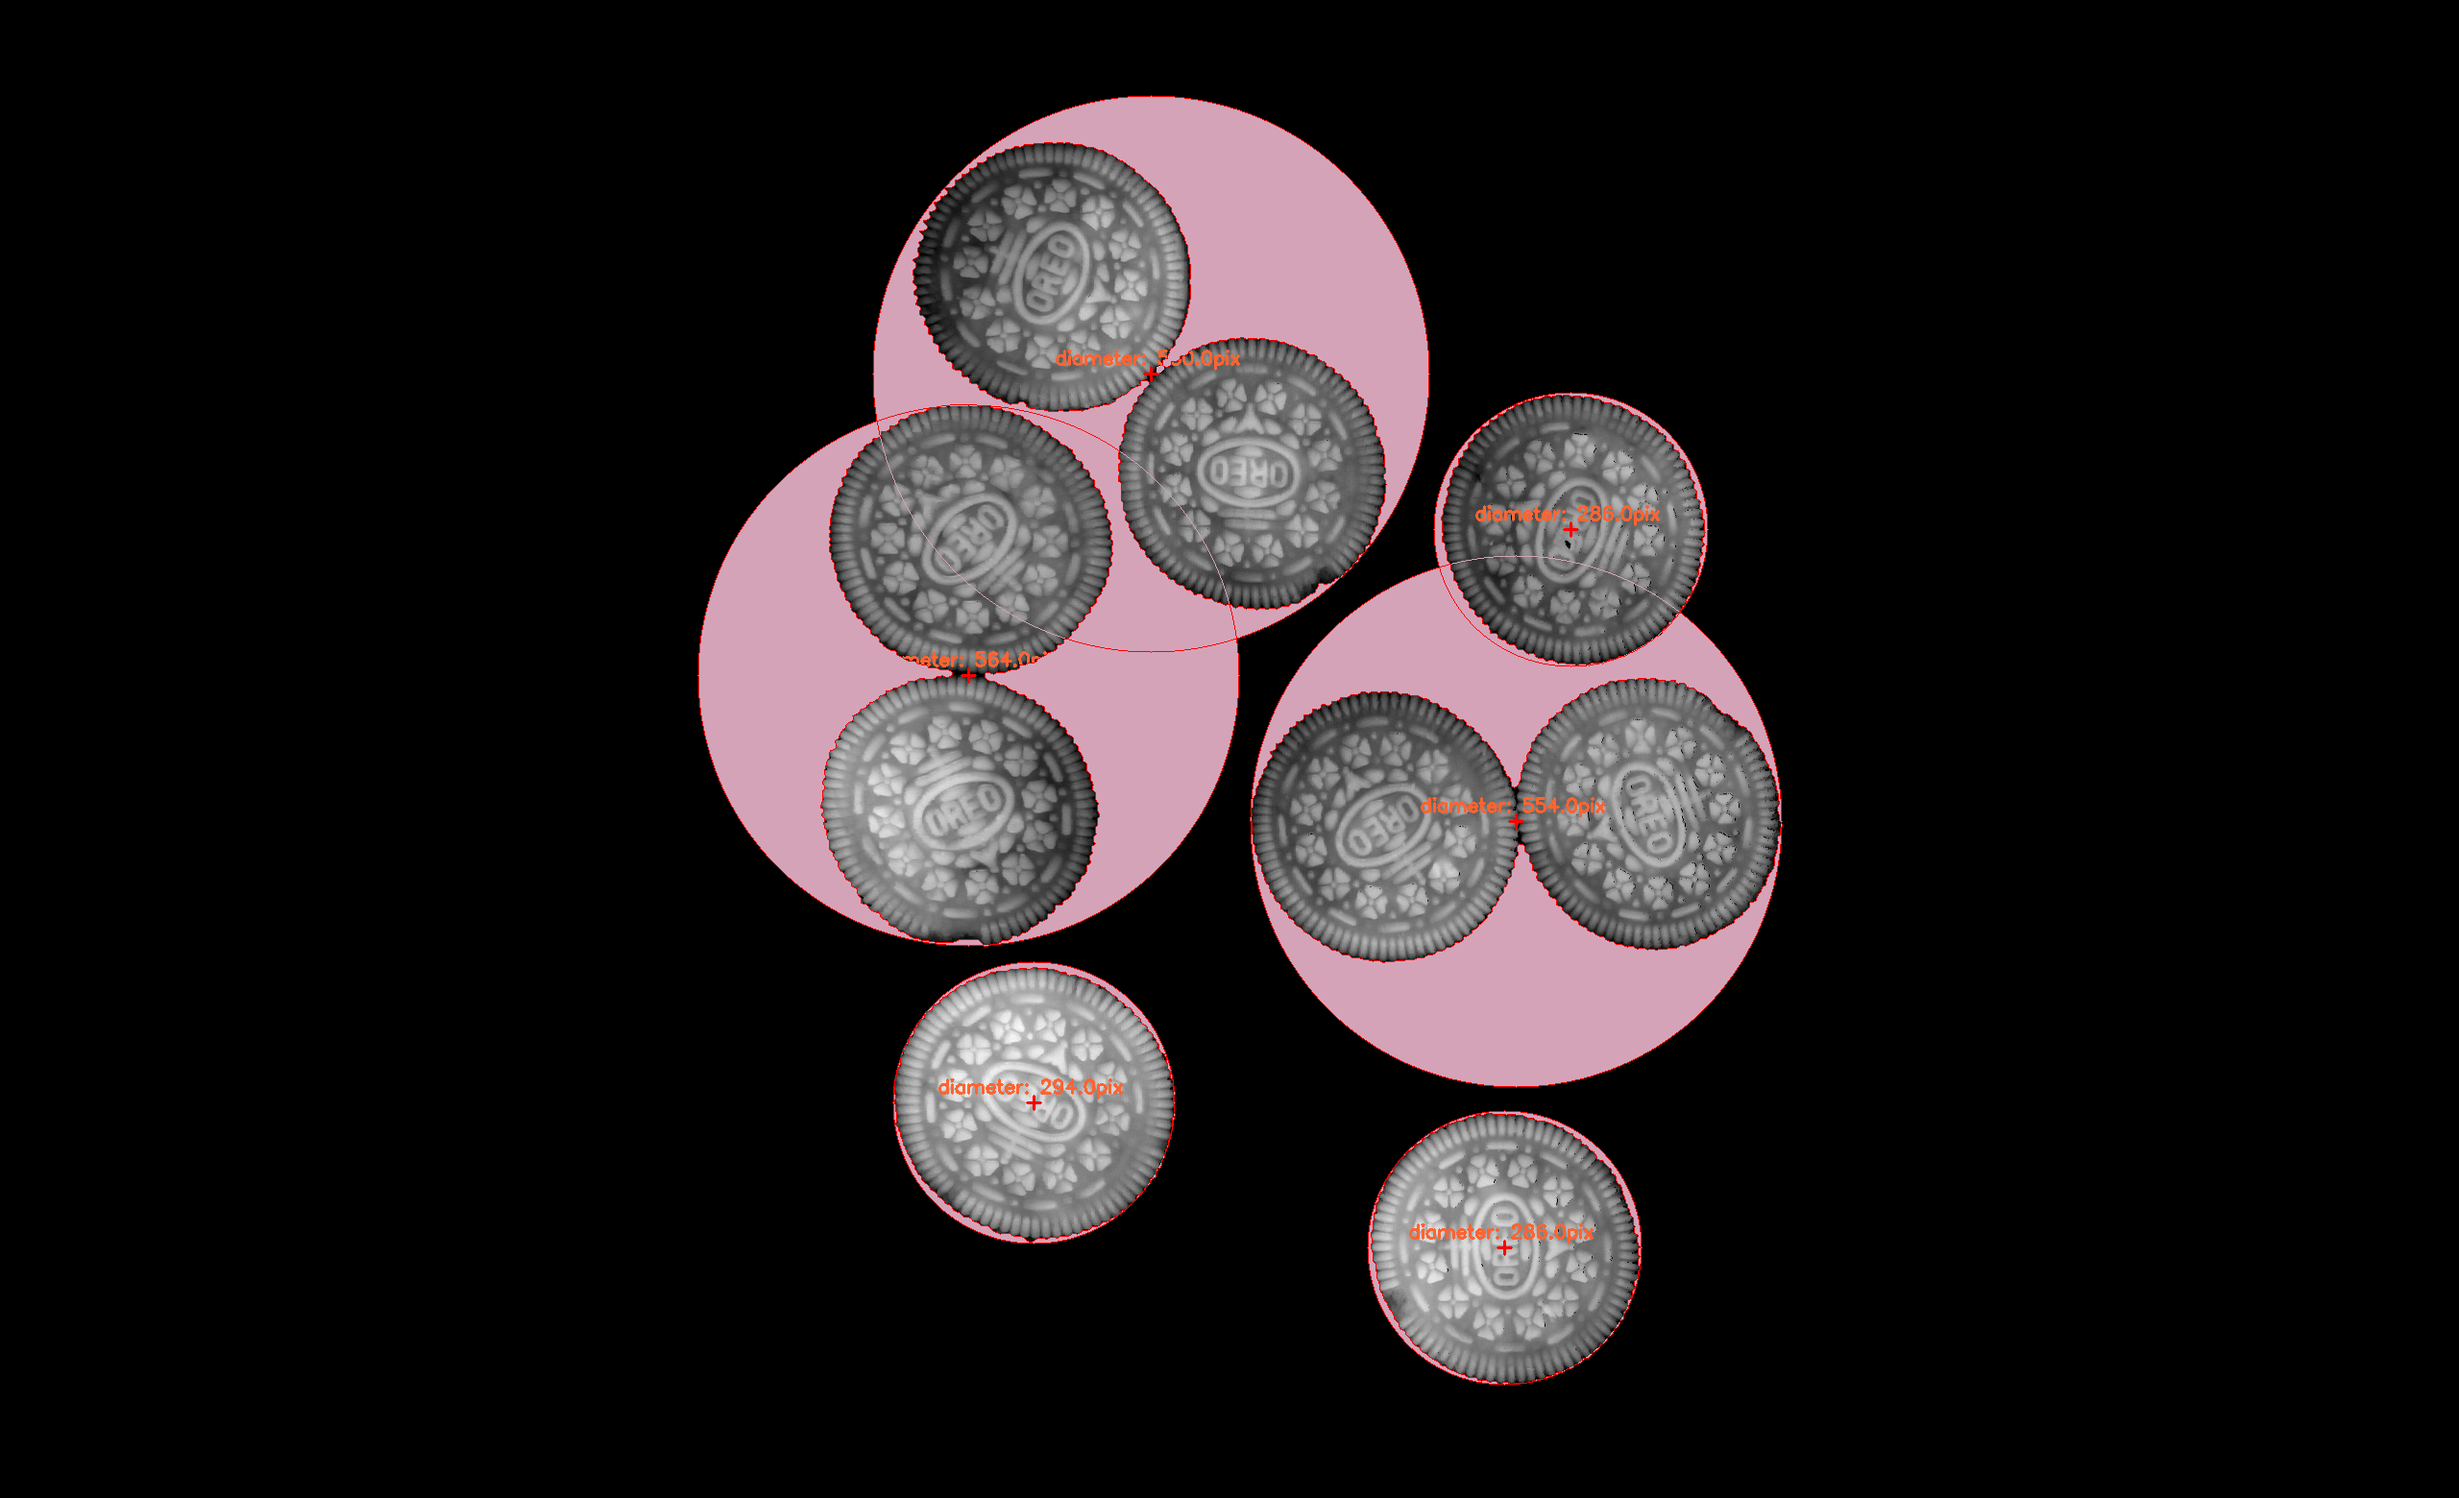
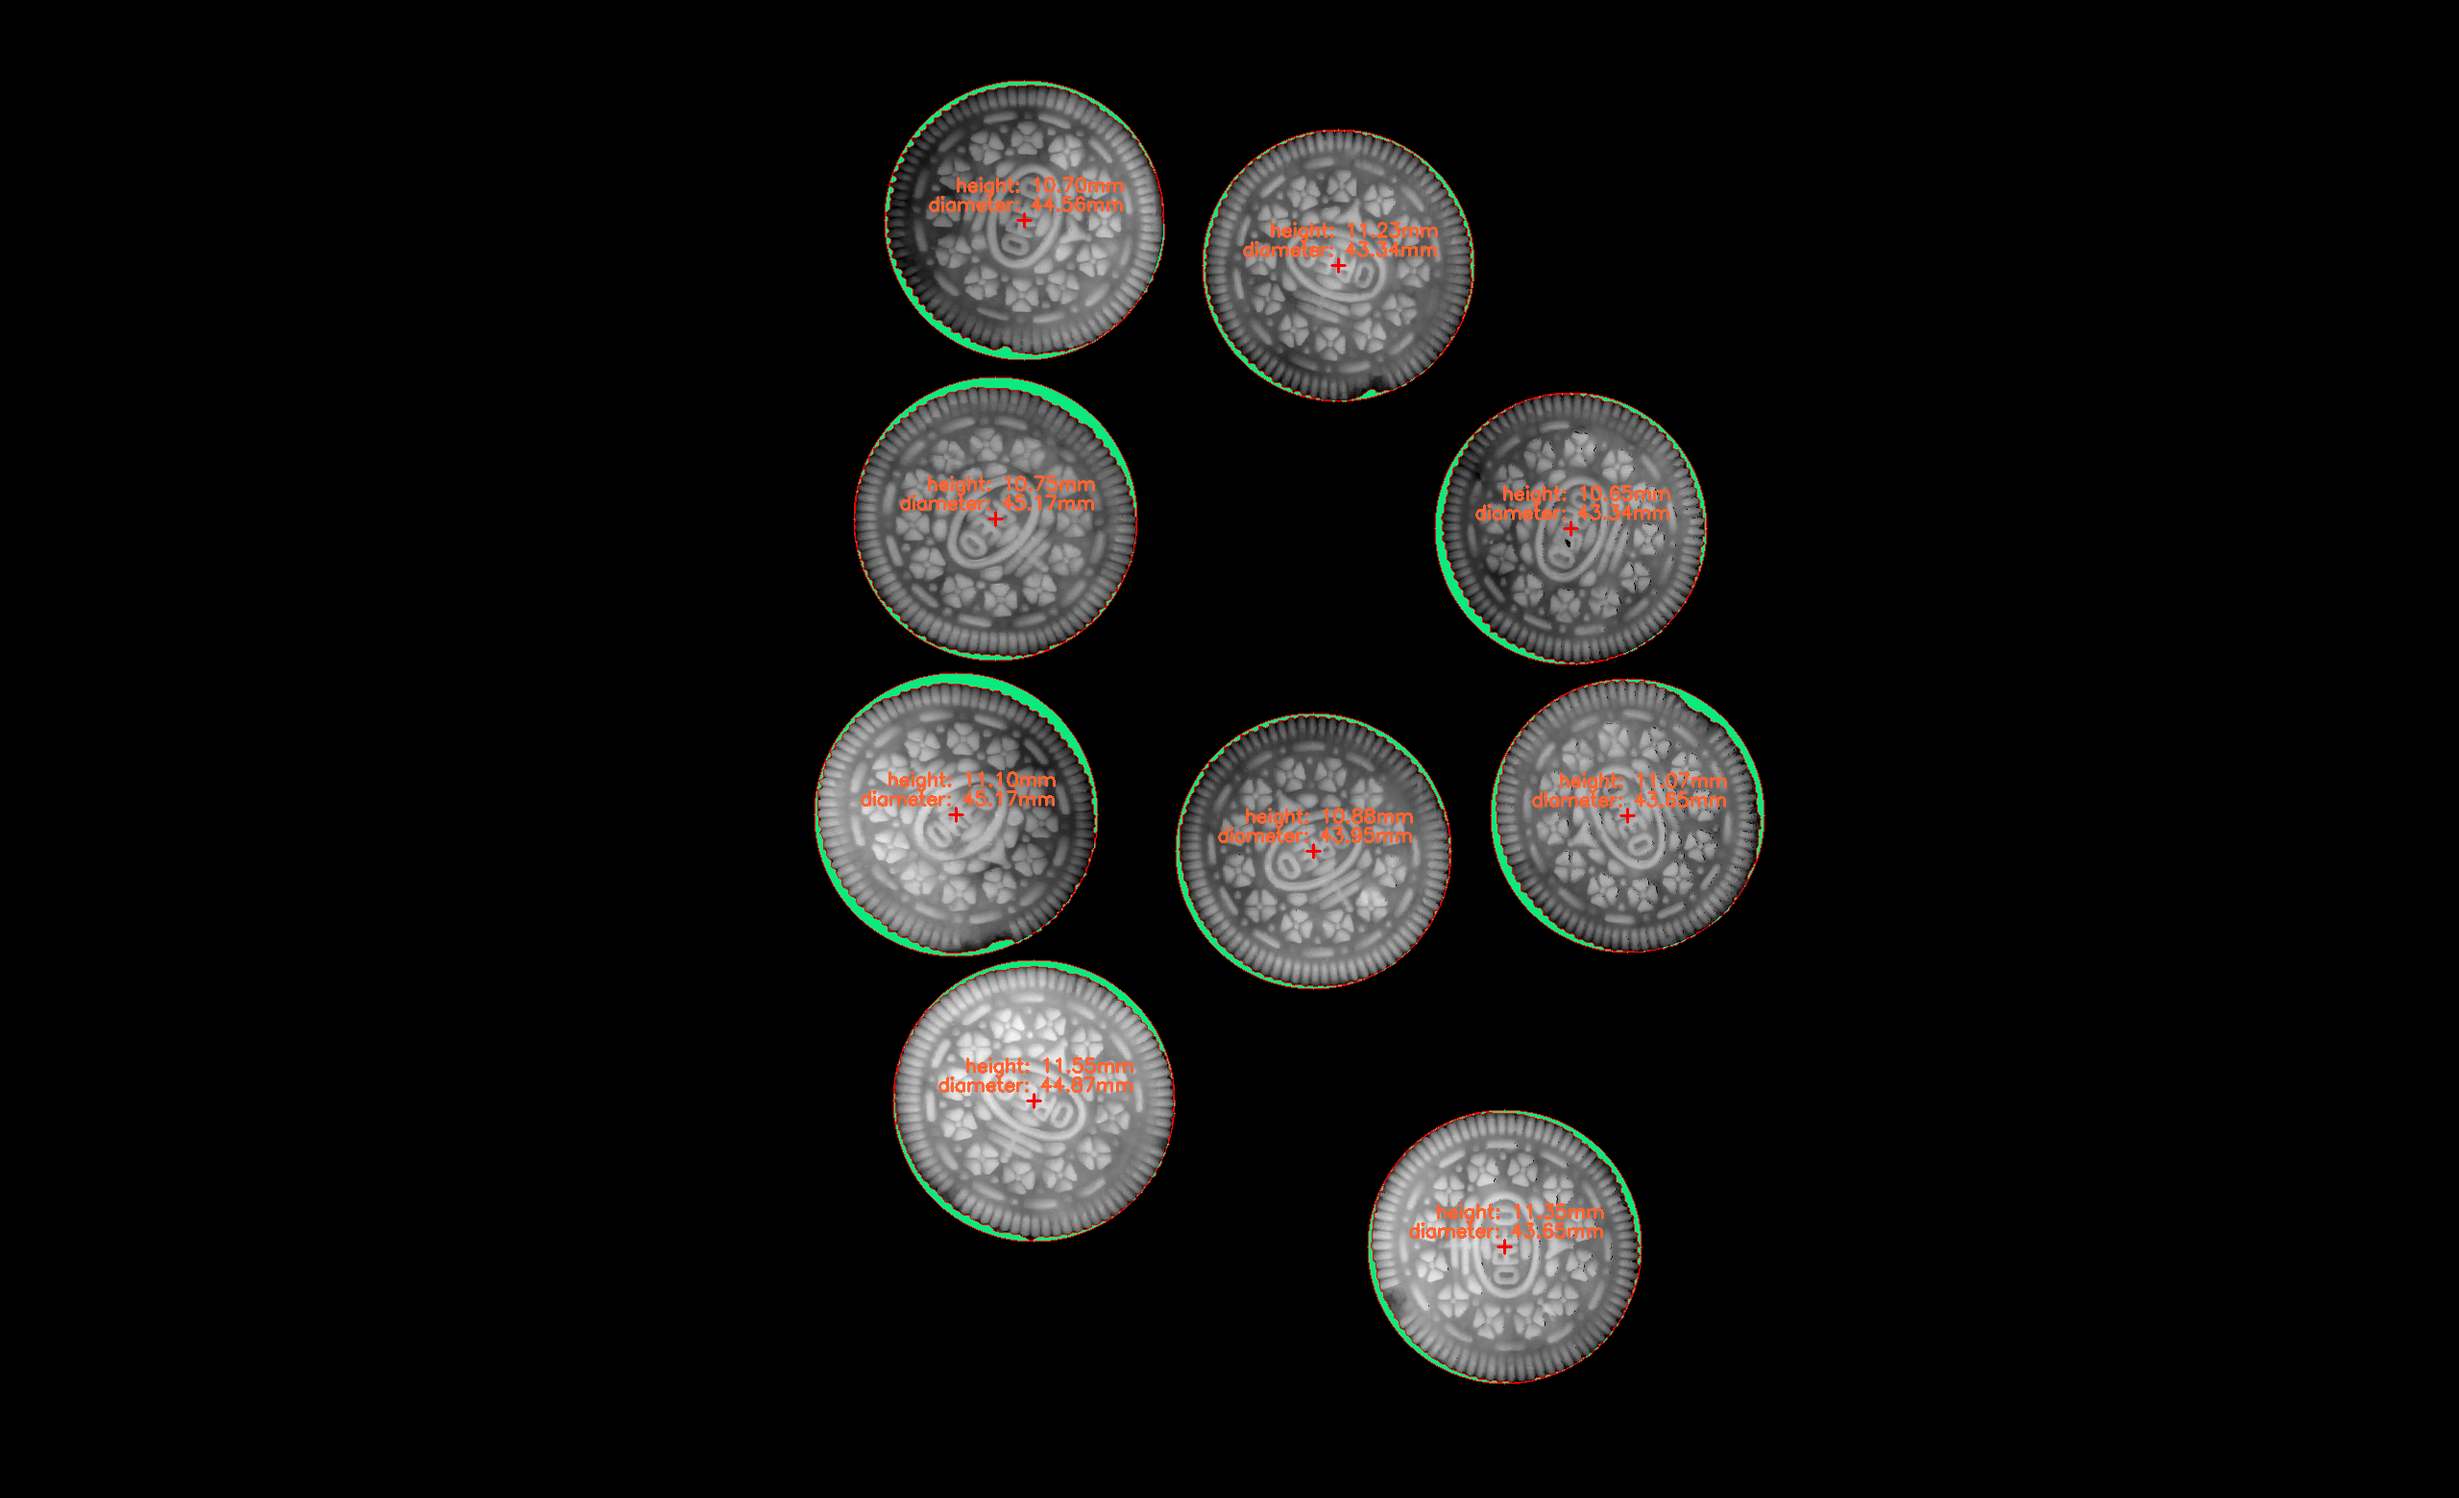
增加高度数据
增加高度数据，并在图中标出。

diff --git a/project/3D相机二进制数据处理.py b/project/3D相机二进制数据处理.py
@@ -21,7 +21,11 @@ def dat2img(filename):
     k = (mean_arry[colum2] - mean_arry[colum1]) / (colum2 - colum1)
     c = np.arange(0, k * 2560, k)
     img = img - c
-    img = img.clip(40)  # 背景：30  饼干：39~43
+    img_height = img.copy()
+    # print(img_height[300, :])
+
+    # 截取40高度位置
+    img = img.clip(40)  # 背景：30  饼干：39~43mm
 
     # 归一化操作，*255当图片显示
     amin, amax = img.min(), img.max()  # 求最大最小值
@@ -43,14 +47,16 @@ def dat2img(filename):
     print('Resized Dimensions : ', resized.shape)
     # plt.imshow(resized)
     # plt.show()
+    img_height = cv2.resize(img_height, dim, interpolation=cv2.INTER_AREA)
 
     # 保存图片
     cv2.imwrite(r'H:\GitHub\3DCamera\docs\photos\resized.png', resized)
+    cv2.imwrite(r'H:\GitHub\3DCamera\docs\photos\img_height.png', img_height)
 
-    return resized
+    return resized, img_height
 
 
-def demopreprocessing(img):
+def demopreprocessing(img, img_height):
     img_original = img.copy()
     img_uint8 = img.astype(np.uint8)  # 转换为整型
     img_info = img.shape
@@ -87,22 +93,22 @@ def demopreprocessing(img):
 
     # 遍历每一个轮廓
     for c in contours:
-        # 找到边界框的坐标
-        x, y, w, h = cv2.boundingRect(c)
-        # 在img图像上 绘制矩形  线条颜色为green 线宽为2
-        #     cv2.rectangle(img,(x,y),(x+w,y+h),(0,255,0),1)
-
-        # 找到最小区域
-        rect = cv2.minAreaRect(c)
-
-        # 计算最小矩形的坐标
-        box = cv2.boxPoints(rect)
-
-        # 坐标转换为整数
-        box = np.int0(box)
-
-        # 绘制轮廓  最小矩形 blue
-        #     cv2.drawContours(img,[box],0,(255,0,0),3)
+        # # 找到边界框的坐标
+        # x, y, w, h = cv2.boundingRect(c)
+        # # 在img图像上 绘制矩形  线条颜色为green 线宽为2
+        # cv2.rectangle(img,(x,y),(x+w,y+h),(0,255,0),1)
+        #
+        # # 找到最小区域
+        # rect = cv2.minAreaRect(c)
+        #
+        # # 计算最小矩形的坐标
+        # box = cv2.boxPoints(rect)
+        #
+        # # 坐标转换为整数
+        # box = np.int0(box)
+        #
+        # # 绘制轮廓  最小矩形 blue
+        # cv2.drawContours(img,[box],0,(255,0,0),3)
 
         # 计算闭圆中心点和半径
         (x, y), radius = cv2.minEnclosingCircle(c)
@@ -110,6 +116,7 @@ def demopreprocessing(img):
         # 转换为整型
         center = (int(x), int(y))
         radius = int(radius)
+        # print("中心及半径", center, radius)
 
         # 在mask1绘制闭圆
         mask1 = cv2.circle(mask1, center, radius, (255, 255, 255), 1)
@@ -125,10 +132,23 @@ def demopreprocessing(img):
         # 画出直径
         #     cv2.line(img,(int(x)-radius,int(y)),(int(x)+radius,int(y)),(0,0,255),2)
         # 标出直径
-        pixelsPerMetric = 1
+        pixelsPerMetric = 2560 / 390.683895
         d = radius * 2 / pixelsPerMetric
-        cv2.putText(img, "diameter: {:.1f}pix".format(d),
+        cv2.putText(img, "diameter: {:.2f}mm".format(d),
                     (int(x - 100), int(y - 10)), cv2.FONT_HERSHEY_SIMPLEX,
+                    0.65, (50, 100, 255), 2)
+        # 标出高度
+        height = 0
+        k = 10
+        for i in range(k):  # 取k*k范围内像素的平均高度
+            for j in range(k):
+                height += img_height[int(y + i), int(x + j)] - 31.4
+                # print(height)
+        height /= (k * k)
+
+        # height = img_height[int(y), int(x)] - 31.4
+        cv2.putText(img, "height: {:.2f}mm".format(height),
+                    (int(x - 72), int(y - 30)), cv2.FONT_HERSHEY_SIMPLEX,
                     0.65, (50, 100, 255), 2)
 
     # 获取圆内mask（圆内数据有效）
@@ -168,6 +188,6 @@ def demopreprocessing(img):
 
 
 if __name__ == '__main__':
-    img = dat2img(r'H:\GitHub\3DCamera\docs\data\2.dat')
-    demopreprocessing(img)
+    img, img_height = dat2img(r'H:\GitHub\3DCamera\docs\data\0.dat')
+    demopreprocessing(img, img_height)
     print('完成')

diff --git a/project/test.py b/project/test.py
@@ -21,7 +21,11 @@ def dat2img(filename):
     k = (mean_arry[colum2] - mean_arry[colum1]) / (colum2 - colum1)
     c = np.arange(0, k * 2560, k)
     img = img - c
-    img = img.clip(40)  # 背景：30  饼干：39~43
+    img_height = img.copy()
+    # print(img_height[300, :])
+
+    # 截取40高度位置
+    img = img.clip(40)  # 背景：30  饼干：39~43mm
 
     # 归一化操作，*255当图片显示
     amin, amax = img.min(), img.max()  # 求最大最小值
@@ -43,14 +47,16 @@ def dat2img(filename):
     print('Resized Dimensions : ', resized.shape)
     # plt.imshow(resized)
     # plt.show()
+    img_height = cv2.resize(img_height, dim, interpolation=cv2.INTER_AREA)
 
     # 保存图片
     cv2.imwrite(r'H:\GitHub\3DCamera\docs\photos\resized.png', resized)
+    cv2.imwrite(r'H:\GitHub\3DCamera\docs\photos\img_height.png', img_height)
 
-    return resized
+    return resized, img_height
 
 
-def demopreprocessing(img):
+def demopreprocessing(img, img_height):
     img_original = img.copy()
     img_uint8 = img.astype(np.uint8)  # 转换为整型
     img_info = img.shape
@@ -87,22 +93,22 @@ def demopreprocessing(img):
 
     # 遍历每一个轮廓
     for c in contours:
-        # 找到边界框的坐标
-        x, y, w, h = cv2.boundingRect(c)
-        # 在img图像上 绘制矩形  线条颜色为green 线宽为2
-        #     cv2.rectangle(img,(x,y),(x+w,y+h),(0,255,0),1)
-
-        # 找到最小区域
-        rect = cv2.minAreaRect(c)
-
-        # 计算最小矩形的坐标
-        box = cv2.boxPoints(rect)
-
-        # 坐标转换为整数
-        box = np.int0(box)
-
-        # 绘制轮廓  最小矩形 blue
-        #     cv2.drawContours(img,[box],0,(255,0,0),3)
+        # # 找到边界框的坐标
+        # x, y, w, h = cv2.boundingRect(c)
+        # # 在img图像上 绘制矩形  线条颜色为green 线宽为2
+        # cv2.rectangle(img,(x,y),(x+w,y+h),(0,255,0),1)
+        #
+        # # 找到最小区域
+        # rect = cv2.minAreaRect(c)
+        #
+        # # 计算最小矩形的坐标
+        # box = cv2.boxPoints(rect)
+        #
+        # # 坐标转换为整数
+        # box = np.int0(box)
+        #
+        # # 绘制轮廓  最小矩形 blue
+        # cv2.drawContours(img,[box],0,(255,0,0),3)
 
         # 计算闭圆中心点和半径
         (x, y), radius = cv2.minEnclosingCircle(c)
@@ -110,6 +116,7 @@ def demopreprocessing(img):
         # 转换为整型
         center = (int(x), int(y))
         radius = int(radius)
+        # print("中心及半径", center, radius)
 
         # 在mask1绘制闭圆
         mask1 = cv2.circle(mask1, center, radius, (255, 255, 255), 1)
@@ -125,10 +132,23 @@ def demopreprocessing(img):
         # 画出直径
         #     cv2.line(img,(int(x)-radius,int(y)),(int(x)+radius,int(y)),(0,0,255),2)
         # 标出直径
-        pixelsPerMetric = 1
+        pixelsPerMetric = 2560 / 390.683895
         d = radius * 2 / pixelsPerMetric
-        cv2.putText(img, "diameter: {:.1f}pix".format(d),
+        cv2.putText(img, "diameter: {:.2f}mm".format(d),
                     (int(x - 100), int(y - 10)), cv2.FONT_HERSHEY_SIMPLEX,
+                    0.65, (50, 100, 255), 2)
+        # 标出高度
+        height = 0
+        k = 10
+        for i in range(k):  # 取k*k范围内像素的平均高度
+            for j in range(k):
+                height += img_height[int(y + i), int(x + j)] - 31.4
+                # print(height)
+        height /= (k * k)
+
+        # height = img_height[int(y), int(x)] - 31.4
+        cv2.putText(img, "height: {:.2f}mm".format(height),
+                    (int(x - 72), int(y - 30)), cv2.FONT_HERSHEY_SIMPLEX,
                     0.65, (50, 100, 255), 2)
 
     # 获取圆内mask（圆内数据有效）
@@ -168,6 +188,6 @@ def demopreprocessing(img):
 
 
 if __name__ == '__main__':
-    img = dat2img(r'H:\GitHub\3DCamera\docs\data\2.dat')
-    demopreprocessing(img)
+    img, img_height = dat2img(r'H:\GitHub\3DCamera\docs\data\0.dat')
+    demopreprocessing(img, img_height)
     print('完成')
